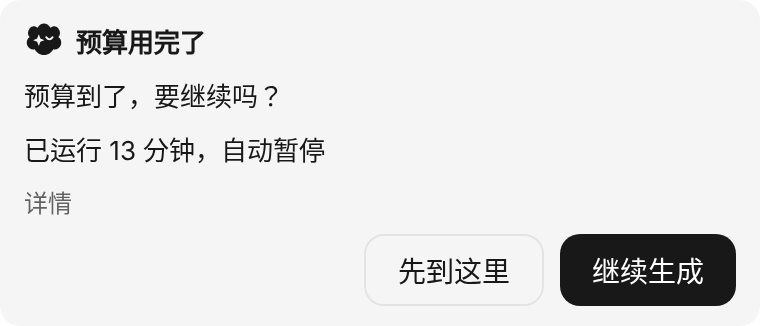
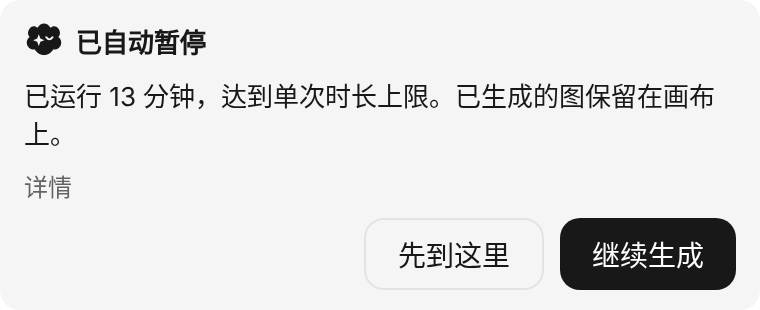
fix(#709): paused-card copy per kind (已自动暂停/已暂停, plain sentences), stuck = 先到这里/继续生成 only, wait_timeout on the run clock + fake-clock tests, per-kind screenshots

diff --git a/src/ui/ChatMessage.tsx b/src/ui/ChatMessage.tsx
@@ -321,8 +321,7 @@ export function RunStop({ b, latest }: { b: BotBlock; latest: boolean }) {
         <div className="ca-panel__foot">
           {copy.secondary && <button type="button" className="ca-panel__secondary" disabled={busy} onClick={() => setClosed(true)}>{copy.secondary}</button>}
           {/* #709: when the card offers 继续生成, it is THE primary action; the locked primary steps back */}
-          <button type="button" className={copy.continue ? 'ca-panel__secondary' : 'ca-panel__primary'} data-action={b.copy?.action} disabled={busy} onClick={go}>{copy.primary}</button>
-          {copy.continue && <button type="button" className="ca-panel__primary" data-action="continue" disabled={busy} onClick={go}>{copy.continue}</button>}
+          <button type="button" className="ca-panel__primary" data-action={b.copy?.action} disabled={busy} onClick={go}>{copy.primary}</button>
         </div>
       )}
     </div>

diff --git a/bot/agent_loop.py b/bot/agent_loop.py
@@ -353,14 +353,14 @@ def _remaining_steps(ctx: RunContext) -> int:
 CARD_COPY = {
     "done": {"zh": ("已完成", "生成了 {n} 张，已放到画布上", None, None),
              "en": ("Done", "Made {n}, placed on the canvas", None, None)},
-    "budget": {"zh": ("预算用完了", "已完成 {n}/{m}，继续大约需要 {x} 积分", "继续生成", "先到这里"),
-               "en": ("Budget used up", "{n}/{m} done; continuing needs about {x} credits", "Continue generating",
+    "budget": {"zh": ("已自动暂停", "{reason}", "继续生成", "先到这里"),
+               "en": ("Paused automatically", "{reason}", "Continue generating",
                       "Stop here")},
     "hard_cap": {"zh": ("先停在这里了", "已完成 {n}/{m}，继续大约需要 {x} 积分", "继续生成", "先到这里"),
                  "en": ("Paused here for now", "{n}/{m} done; continuing needs about {x} credits", "Continue generating",
                         "Stop here")},
-    "stuck": {"zh": ("卡住了", "卡在：{step}", "换个说法再试", None),
-              "en": ("Stuck", "Stuck at: {step}", "Try rephrasing", None)},
+    "stuck": {"zh": ("已暂停", "{reason}", "继续生成", "先到这里"),
+              "en": ("Paused", "{reason}", "Continue generating", "Stop here")},
     "stuck:self_check_failed": {"zh": ("结果未通过自检", "已交付 {n} 张，还差：{miss}", "继续", None),
                                 "en": ("Result failed the self-check", "Delivered {n}; still missing: {miss}",
                                        "Continue", None)},
@@ -380,24 +380,24 @@ CARD_COPY = {
 # awaiting_confirm:not_approved stop title so a pending card and an unapproved one never read the same.
 PENDING_CONFIRM_LABEL = {"zh": "等待确认", "en": "Awaiting confirmation"}
 # primary button action: continue the run from its checkpoint | rephrase (focus the composer) | retry
-_PRIMARY_ACTION = {"stuck": "rephrase", "error": "retry"}
+_PRIMARY_ACTION = {"error": "retry"}  # #709: stuck primary = 继续生成 (continue)
 # #709: every paused card names WHY it paused (one plain line) and stuck cards also offer 继续, which resumes
 # the same run from its checkpoint (agent_loop resume: fresh progress window for stuck, +1 budget for budget).
 # #709 UIUX: the card's reason is a plain sentence (never stuck:* / budget:* codes).
 _STUCK_REASON = {
     "zh": {"no_progress": "连续几步都没有新产出，自动暂停", "repeat": "同一个操作反复出现，自动暂停",
            "tool_error": "工具连续出错，自动暂停", "readonly_limit": "连续多步只在查看、没有生成，自动暂停",
-           "same_tool": "同一个工具连续用了 3 次以上，自动暂停", "non_retryable": "工具返回了无法重试的错误，已暂停",
+           "same_tool": "连续重复同一步，已停下", "non_retryable": "工具返回了无法重试的错误，已暂停",
            "budget": "生成和工具调用次数到了本次上限，自动暂停",
-           "timeout": "等待生成结果超过 10 分钟（或已查询 120 次），自动暂停"},
+           "timeout": "等待生成结果超过 {N} 分钟"},
     "en": {"no_progress": "No new output for several steps, paused automatically",
            "repeat": "The same action kept repeating, paused automatically",
            "tool_error": "A tool failed several times in a row, paused automatically",
            "readonly_limit": "Several steps only looked and made nothing, paused automatically",
-           "same_tool": "The same tool ran more than 3 times in a row, paused automatically",
+           "same_tool": "Repeated the same step in a row, stopped",
            "non_retryable": "A tool returned an error that can't be retried, paused",
            "budget": "Generation and tool calls reached this run's limit, paused automatically",
-           "timeout": "Waited over 10 minutes (or 120 checks) for a result, paused automatically"},
+           "timeout": "Waited over {N} min for the result"},
 }
 _CONTINUE_LABEL = {"zh": "继续生成", "en": "Continue generating"}
 
@@ -407,14 +407,25 @@ def _budget_reason(ctx: "RunContext", dim: str, lk: str) -> str:
     u = ctx.budget.used
     if dim == "time":
         mins = max(1, int(round(u.wall_s / 60)))
-        return f"已运行 {mins} 分钟，自动暂停" if lk == "zh" else f"Ran for {mins} min, paused automatically"
+        return (f"已运行 {mins} 分钟，达到单次时长上限。已生成的图保留在画布上。" if lk == "zh" else
+                f"Ran for {mins} min, reaching the per-run time limit. Images already made stay on the canvas.")
     if dim == "credits":
         c = ui_credits(u.credits)
-        return f"已用 {c} 积分，自动暂停" if lk == "zh" else f"Used {c} credits, paused automatically"
+        return (f"已用 {c} 积分，达到单次积分上限。已生成的图保留在画布上。" if lk == "zh" else
+                f"Used {c} credits, reaching the per-run credit limit. Images already made stay on the canvas.")
     if dim == "tokens":
         t = _fmt_tokens(u.tokens)
-        return f"模型用量已达 {t}，自动暂停" if lk == "zh" else f"Model usage reached {t}, paused automatically"
+        return (f"模型用量已达 {t}，达到单次上限。已生成的图保留在画布上。" if lk == "zh" else
+                f"Model usage reached {t}, the per-run limit. Images already made stay on the canvas.")
     return "已自动暂停" if lk == "zh" else "Paused automatically"
+
+
+def _stuck_reason(ctx: "RunContext", sub: str, lk: str) -> str:
+    t = _STUCK_REASON[lk].get(sub, "已自动暂停" if lk == "zh" else "Paused automatically")
+    if "{N}" in t:
+        tr = ctx.tracker
+        t = t.replace("{N}", str(max(1, int((max(tr.wait_waited_s, 0) or tr.wait_max_s) // 60))))
+    return t
 
 
 # 「详情」 token line label: ONE copy key, design picks the final Chinese word (placeholder 用量).
@@ -443,7 +454,11 @@ def _card_body(key: str, lk: str, *, n: int, m: Optional[int], x: Optional[int],
     image = kind == "image" and m is not None
     u = _UNIT[lk].get(kind, _UNIT[lk][""])
     sep = "，" if lk == "zh" else "; "
-    if key in ("budget", "hard_cap"):
+    if key == "budget" and x is not None:   # #709: plain sentence + the real cost to continue
+        return kw["reason"] + (f"继续大约需要 {x} 积分。" if lk == "zh" else f" Continuing needs about {x} credits.")
+    if key in ("budget", "stuck"):
+        return kw["reason"]          # #709: one plain sentence, no separate duplicated reason line
+    if key == "hard_cap":
         if not image:
             return f["ask"]
         return f["progress"].format(n=n, m=m) + (f["est"].format(x=x) if x is not None else "")
@@ -539,16 +554,16 @@ def card_copy(ctx: RunContext, stop: Stop, check: sc_mod.SelfCheck, remaining: i
         miss = (f"{check.missing} {sc_mod._KIND_LABEL[lk][goal.kind]}" if lk == "en" else
                 f"{check.missing} {dict(image='张', video='段', text='条')[goal.kind]}{sc_mod._KIND_LABEL[lk][goal.kind]}") if goal else ""
         reason = (stop.detail or _STALL_LABEL[lk].get(stop.sub, "") or stop.code).strip().splitlines()
+        plain = (_budget_reason(ctx, stop.dimension, lk) if key == "budget" else
+                 _stuck_reason(ctx, stop.sub, lk) if key == "stuck" else (reason[0] if reason else "")[:160])
         out[lk] = {"title": title,
-                   "body": _card_body(key, lk, n=n, m=m, x=x, kind=kind, step=step, miss=miss,
-                                      reason=(reason[0] if reason else "")[:160]),
+                   "body": _card_body(key, lk, n=n, m=m, x=x, kind=kind, step=step, miss=miss, reason=plain),
                    "primary": primary, "secondary": secondary}
-        if stop.reason == StopReason.BUDGET:
-            out[lk]["reason"] = _budget_reason(ctx, stop.dimension, lk)
-        elif stop.reason == StopReason.STUCK:
-            out[lk]["reason"] = _STUCK_REASON[lk].get(stop.sub, "已自动暂停" if lk == "zh" else "Paused automatically")
-            if primary not in ("继续", "Continue"):
-                out[lk]["continue"] = _CONTINUE_LABEL[lk]
+        if stop.reason in (StopReason.BUDGET, StopReason.STUCK) and key not in ("budget", "stuck"):
+            r = (_budget_reason(ctx, stop.dimension, lk) if stop.reason == StopReason.BUDGET
+                 else _stuck_reason(ctx, stop.sub, lk))
+            if r != out[lk]["body"]:
+                out[lk]["reason"] = r
     return out
 
 
@@ -911,7 +926,7 @@ async def run(provider, *, session, turn, emit, handle, base: str, model: str, t
                 _log.warning("[ComfyArt/agent] run %s over budget: %d calls, %d generate_image (cap %d/%d)", ctx.run_id,
                              ctx.tracker.total_calls, ctx.tracker.gen_calls, ctx.tracker.tool_calls_max, ctx.tracker.gen_cap())
                 return await finish(Stop(StopReason.STUCK, "budget", step=ctx.budget.used.steps))
-            if ctx.tracker.wait_timeout(obs):  # #705: one generation task waited > 10 min or > 120 polls
+            if ctx.tracker.wait_timeout(obs, now=clock()):  # #705: one generation task waited > 10 min or > 120 polls
                 _log.warning("[ComfyArt/agent] run %s wait_generation timeout: %s", ctx.run_id, ctx.tracker.wait_polls)
                 return await finish(Stop(StopReason.STUCK, "timeout", step=ctx.budget.used.steps))
             stall = ctx.tracker.observe(ctx.budget.used.steps, obs, canvas_fp="|".join(ctx.artifacts[-200:]))

diff --git a/tests/test_e2e_skill_paused_continue_709.py b/tests/test_e2e_skill_paused_continue_709.py
@@ -48,14 +48,22 @@ def page(tmp_path_factory):
 CODES = re.compile(r"budget:|stuck:|hard_cap|exhausted|_limit|non_retryable|self_check|timeout|no_progress|same_tool")
 
 
-def ui_continue(page, block, reason_text, shot=None):
+def ui_continue(page, block, reason_text, shot=None, title=None):
     """Render the real card: plain reason + PRIMARY 继续生成; clicking it POSTs /runs/<same id>/continue."""
     page.evaluate("([b]) => { window.__calls = []; window.__render(b, 'zh', 'light') }", [[block]])
     page.wait_for_selector(".ca-run")
     r = page.locator(".ca-run").first
     text = r.inner_text()
-    assert reason_text in text and page.locator("[data-run-reason]").first.inner_text() == reason_text
+    assert reason_text in text and text.count(reason_text) == 1
+    if title:
+        assert r.locator(".ca-run__title").first.inner_text().strip() == title, text
+    lines = [x.strip() for x in text.splitlines() if x.strip()]
+    assert len(lines) == len(set(lines)), lines             # no duplicated line
+    for gone in ("预算用完了", "预算到了，要继续吗？", "换个说法再试", "卡住了"):
+        assert gone not in text, text
     assert not CODES.search(text), text                     # no internal code in visible text
+    assert [b.inner_text() for b in r.locator("button:not(.ca-run__details button)").all()
+            if b.inner_text() in ("先到这里", "继续生成", "换个说法再试", "继续")] == ["先到这里", "继续生成"], text
     if shot:
         Path(shot).parent.mkdir(parents=True, exist_ok=True)
         r.screenshot(path=shot)
@@ -102,9 +110,9 @@ def test_budget_exhausted_plain_reason_primary_continue_keeps_images(monkeypatch
     b = card(ev)
     assert b["can_continue"] and b["run_id"] == rid
     mins = max(1, round(res.run["log"]["wall_s"] / 60))
-    want = f"已运行 {mins} 分钟，自动暂停"
+    want = f"已运行 {mins} 分钟，达到单次时长上限。已生成的图保留在画布上。"
     shot = str(Path(SHOT) / "paused_budget_time_zh.png") if SHOT else None
-    card_el, got = ui_continue(page, b, want, shot)
+    card_el, got = ui_continue(page, b, want, shot, title="已自动暂停")
     assert got == rid
     assert card_el.locator("button.ca-panel__secondary").inner_text() == "先到这里"
     assert len(images(store, rid)) == len(made) and store.get_run(rid)["state"]["artifacts"] == art  # unchanged while paused
@@ -114,31 +122,33 @@ def test_budget_exhausted_plain_reason_primary_continue_keeps_images(monkeypatch
 
 
 def test_stuck_plain_reason_and_primary_continue_resumes_same_run(monkeypatch, store, page):
-    r = Rig(monkeypatch, lambda m, n: calls(("get_canvas", {})), store=store)
-    res, ev = arun(r.send("加字", goal=""))
+    r = Rig(monkeypatch, lambda m, n: calls(("generate_image", {"prompt": f"v{n}"})), store=store,
+            mcp=lambda name, a, i: f"queued attempt {i}", prices={"generate_image": 0.01})
+    res, ev = arun(r.send("Banner", goal=""))
     s, rid = stop_of(res), res.run["run_id"]
     assert s["reason"] == "stuck" and store.get_run(rid)["status"] == "paused"
     b = card(ev)
-    want = agent_loop._STUCK_REASON["zh"][s["sub"]]
-    assert b["copy"]["zh"]["reason"] == want
-    assert ui_continue(page, b, want)[1] == rid
+    assert s["sub"] == "same_tool", s
+    want = "连续重复同一步，已停下"
+    assert b["copy"]["zh"]["body"] == want and "reason" not in b["copy"]["zh"] and b["copy"]["action"] == "continue"
+    shot = str(Path(SHOT) / "paused_stuck_same_tool_zh.png") if SHOT else None
+    assert ui_continue(page, b, want, shot, title="已暂停")[1] == rid
     resume_to_done(monkeypatch, store, rid)
 
 
 def test_stuck_timeout_plain_reason_and_primary_continue_resumes_same_run(monkeypatch, store, page):
-    orig = run_budget.ProgressTracker.wait_timeout
+    clk = Clock()   # the run's own (monotonic-style) clock drives wait_timeout, not time.time()
 
-    def small(self, obs, now=None):
-        self.wait_max_polls = 2
-        return orig(self, obs, now)
-    monkeypatch.setattr(run_budget.ProgressTracker, "wait_timeout", small)
-    r = Rig(monkeypatch, lambda m, n: calls(("wait_generation", {"ids": ["job1"]})), store=store,
-            mcp=lambda name, a, i: json.dumps({"status": "pending"}))
+    def mcp(name, a, i):
+        clk.t += 330
+        return json.dumps({"status": "pending"})
+    r = Rig(monkeypatch, lambda m, n: calls(("wait_generation", {"ids": ["job1"]})), store=store, clock=clk, mcp=mcp,
+            policy={"wall_time_s": 10**6})
     res, ev = arun(r.send("加字", goal=""))
     s, rid = stop_of(res), res.run["run_id"]
     assert (s["reason"], s["sub"]) == ("stuck", "timeout") and store.get_run(rid)["status"] == "paused"
-    assert ui_continue(page, card(ev), "等待生成结果超过 10 分钟（或已查询 120 次），自动暂停")[1] == rid
-    monkeypatch.setattr(run_budget.ProgressTracker, "wait_timeout", orig)
+    shot = str(Path(SHOT) / "paused_wait_timeout_zh.png") if SHOT else None
+    assert ui_continue(page, card(ev), "等待生成结果超过 11 分钟", shot, title="已暂停")[1] == rid
     resume_to_done(monkeypatch, store, rid)
 
 

diff --git a/tests/test_skill_wait_clock_709.py b/tests/test_skill_wait_clock_709.py
@@ -1,0 +1,58 @@
+"""#709: wait_timeout runs on the run's monotonic clock (same as the other loop caps), never time.time()."""
+from __future__ import annotations
+
+import inspect
+import time
+
+from ComfyArt.bot import agent_loop
+from ComfyArt.bot.run_budget import ProgressTracker, StepObservation
+
+
+class FakeClock:
+    def __init__(self, t: float = 1000.0):
+        self.t = t
+
+    def __call__(self) -> float:
+        return self.t
+
+
+def poll(job="job1"):
+    return [StepObservation(tool="wait_generation", args_key='wait_generation\x00{"ids": ["%s"]}' % job,
+                            result='{"status": "pending"}', failed=False)]
+
+
+def tracker():
+    return ProgressTracker(3, 6, 3)
+
+
+def test_wait_timeout_uses_fake_clock_not_wall_time(monkeypatch):
+    monkeypatch.setattr(time, "time", lambda: (_ for _ in ()).throw(AssertionError("time.time used")))
+    clk, tr = FakeClock(), tracker()
+    assert not tr.wait_timeout(poll(), now=clk())
+    clk.t += 599
+    assert not tr.wait_timeout(poll(), now=clk())
+    clk.t += 2                                   # 601 s on the run clock since the first poll
+    assert tr.wait_timeout(poll(), now=clk())
+    assert tr.wait_waited_s == 601
+
+
+def test_wall_clock_jump_does_not_trip_timeout(monkeypatch):
+    clk, tr = FakeClock(), tracker()
+    monkeypatch.setattr(time, "time", lambda: 10**12)   # a wall-clock jump must not matter
+    for _ in range(5):
+        clk.t += 10
+        assert not tr.wait_timeout(poll(), now=clk())
+
+
+def test_default_clock_is_monotonic(monkeypatch):
+    monkeypatch.setattr(time, "monotonic", lambda: 5.0)
+    monkeypatch.setattr(time, "time", lambda: (_ for _ in ()).throw(AssertionError("time.time used")))
+    tr = tracker()
+    tr.wait_timeout(poll())
+    assert tr.wait_first == {"job1": 5.0}
+
+
+def test_agent_loop_passes_the_run_clock():
+    src = inspect.getsource(agent_loop.run)
+    assert "wait_timeout(obs, now=clock())" in src
+    assert inspect.signature(agent_loop.run).parameters["clock"].default is time.monotonic

diff --git a/tests/test_agent_budget_391_el.py b/tests/test_agent_budget_391_el.py
@@ -187,9 +187,9 @@ def test_stop_enum_is_locked():
 
 LOCKED = {
     "done": ("已完成", "生成了 {n} 张，已放到画布上", None, None),
-    "budget": ("预算用完了", "已完成 {n}/{m}，继续大约需要 {x} 积分", "继续生成", "先到这里"),
+    "budget": ("已自动暂停", "{reason}", "继续生成", "先到这里"),
     "hard_cap": ("先停在这里了", "已完成 {n}/{m}，继续大约需要 {x} 积分", "继续生成", "先到这里"),
-    "stuck": ("卡住了", "卡在：{step}", "换个说法再试", None),
+    "stuck": ("已暂停", "{reason}", "继续生成", "先到这里"),
     "stuck:self_check_failed": ("结果未通过自检", "已交付 {n} 张，还差：{miss}", "继续", None),
     "user_stop": ("已停止", "已保留生成的 {n} 张", "继续", None),
     "user_stop:quote_declined": ("已取消", "报价没有确认，不会扣费；已保留之前生成的 {n} 张", "继续", None),
@@ -226,8 +226,10 @@ async def test_stuck_card_names_the_step(monkeypatch, store):
     c = card(ev)
     assert stop_of(res)["reason"] == "stuck"
     body = c["copy"]["zh"]["body"]
-    assert body.startswith("卡在：") and len(body) > len("卡在：")
-    assert c["copy"]["zh"]["primary"] == "换个说法再试" and c["copy"]["action"] == "rephrase"
+    # #709: stuck card = one plain sentence, 先到这里 / 继续生成 only (换个说法再试 removed)
+    assert body == agent_loop._STUCK_REASON["zh"][stop_of(res)["sub"]] and "reason" not in c["copy"]["zh"]
+    assert (c["copy"]["zh"]["title"], c["copy"]["zh"]["primary"], c["copy"]["zh"]["secondary"]) == ("已暂停", "继续生成", "先到这里")
+    assert c["copy"]["action"] == "continue" and "continue" not in c["copy"]["zh"]
 
 
 async def test_quote_declined_card_is_neutral_and_free(monkeypatch, store):

diff --git a/bot/run_budget.py b/bot/run_budget.py
@@ -489,7 +489,8 @@ class ProgressTracker:
     # #705: wait_generation is outside the 30 cap but each task gets max 10 min OR 120 polls -> stuck:timeout
     wait_max_s: float = 600.0
     wait_max_polls: int = 120
-    wait_first: dict = field(default_factory=dict)   # task id -> wall time of first poll
+    wait_first: dict = field(default_factory=dict)   # task id -> run-clock time of first poll
+    wait_waited_s: float = 0.0                       # #709: longest wait so far (run clock), for the card copy
     wait_polls: dict = field(default_factory=dict)   # task id -> polls so far
     last_tool: str = ""
     same_tool_run: int = 0
@@ -568,7 +569,8 @@ class ProgressTracker:
 
     def wait_timeout(self, obs: list[StepObservation], now: Optional[float] = None) -> bool:
         """#705: True once any task polled by wait_generation passes wait_max_s since its first poll or wait_max_polls."""
-        now = time.time() if now is None else now
+        # #709: callers pass the run's clock (time.monotonic-based, same as the other loop caps)
+        now = time.monotonic() if now is None else now
         hit = False
         for o in obs:
             if re.sub(r"^mcp__\w+__", "", o.tool or "") != "wait_generation":
@@ -582,6 +584,7 @@ class ProgressTracker:
             for i in ids:
                 self.wait_first.setdefault(i, now)
                 self.wait_polls[i] = self.wait_polls.get(i, 0) + 1
+                self.wait_waited_s = max(self.wait_waited_s, now - self.wait_first[i])
                 if self.wait_polls[i] > self.wait_max_polls or now - self.wait_first[i] > self.wait_max_s:
                     hit = True
         return hit

diff --git a/tests/test_run_stop_render_393.py b/tests/test_run_stop_render_393.py
@@ -23,9 +23,10 @@ TONE = {"done": "ok", "budget": "warn", "hard_cap": "warn", "stuck": "warn", "st
         "awaiting_confirm:not_approved": "warn"}
 # (copy key, body args): the same 11 cards as the #78 sheet
 CARDS = [("done", dict(n=4, m=4, x=None, kind="image")), ("done", dict(n=0, m=None, x=None, kind="")),
-         ("budget", dict(n=3, m=4, x=40, kind="image")), ("hard_cap", dict(n=3, m=4, x=None, kind="image")),
-         ("budget", dict(n=0, m=None, x=None, kind="")),
-         ("stuck", dict(n=0, m=None, x=None, kind="", step={"zh": "生成图片", "en": "Generate image"})),
+         ("budget", dict(n=3, m=4, x=40, kind="image", reason={"zh": "已运行 15 分钟，达到单次时长上限。已生成的图保留在画布上。", "en": "Ran for 15 min, reaching the per-run time limit. Images already made stay on the canvas."})), ("hard_cap", dict(n=3, m=4, x=None, kind="image")),
+         ("budget", dict(n=0, m=None, x=None, kind="", reason={"zh": "已运行 15 分钟，达到单次时长上限。已生成的图保留在画布上。", "en": "Ran for 15 min, reaching the per-run time limit. Images already made stay on the canvas."})),
+         ("stuck", dict(n=0, m=None, x=None, kind="", step={"zh": "生成图片", "en": "Generate image"},
+                            reason={"zh": "连续重复同一步，已停下", "en": "Repeated the same step in a row, stopped"})),
          ("stuck:self_check_failed", dict(n=3, m=4, x=None, kind="image", miss={"zh": "1 张图", "en": "1 image"})),
          ("user_stop", dict(n=3, m=4, x=None, kind="image")),
          ("user_stop:quote_declined", dict(n=3, m=4, x=None, kind="image")),

diff --git a/tests/test_agent_budget_391.py b/tests/test_agent_budget_391.py
@@ -306,8 +306,9 @@ async def test_soft_limit_exceeded_pauses_interactive(monkeypatch, store):
     c = card(ev)
     assert c["can_continue"] and c["estimate"]["credits"] > 0 and c["remaining"]["deliverables"] >= 1
     zh = c["copy"]["zh"]
-    assert zh["title"] == "预算用完了" and zh["primary"] == "继续生成" and zh["secondary"] == "先到这里"
-    assert zh["body"].startswith("已完成 ") and "/4" in zh["body"] and "继续大约需要" in zh["body"] and "积分" in zh["body"]
+    assert zh["title"] == "已自动暂停" and zh["primary"] == "继续生成" and zh["secondary"] == "先到这里"
+    assert zh["body"].startswith("已用 ") and "达到单次积分上限。已生成的图保留在画布上。继续大约需要" in zh["body"]
+    assert "预算" not in zh["body"] and "reason" not in zh
     assert store.get_run(res.run["run_id"])["status"] == "paused"
 
 
